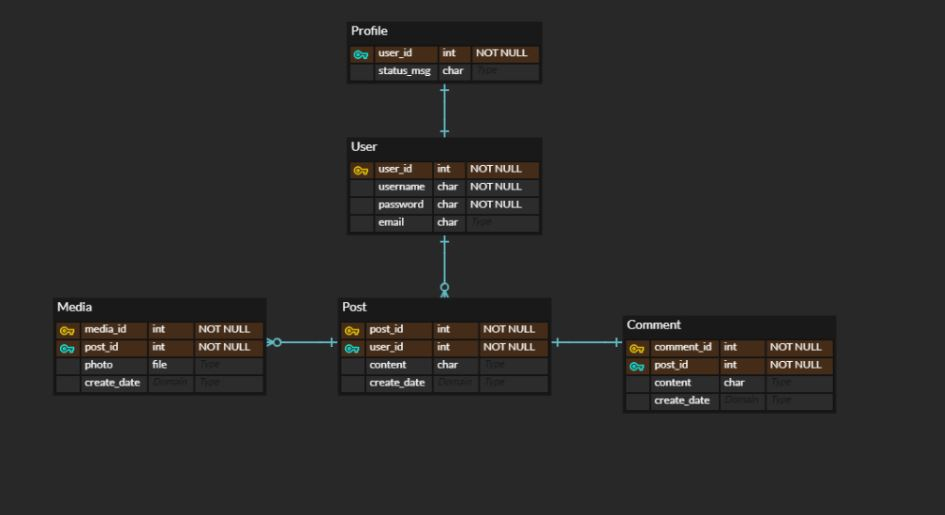
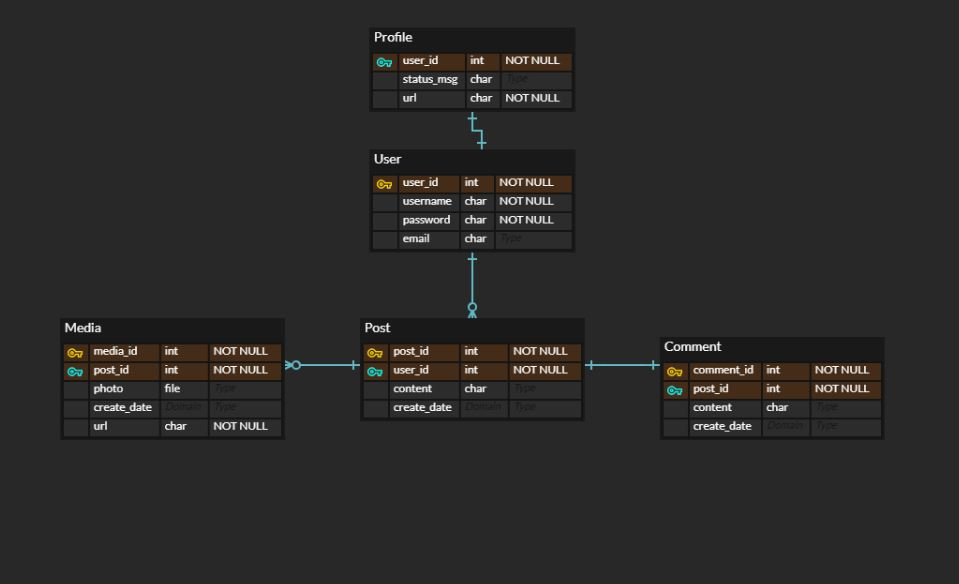
모델 수정, 4주차 DRF readme 추가

Changed region(s): [[0.0614, 0.0311, 0.9206, 0.8078]]

diff --git a/api/migrations/0003_auto_20220407_1848.py b/api/migrations/0003_auto_20220407_1848.py
@@ -1,0 +1,49 @@
+# Generated by Django 3.0.8 on 2022-04-07 09:48
+
+from django.db import migrations, models
+
+
+class Migration(migrations.Migration):
+
+    dependencies = [
+        ('api', '0002_remove_media_photo'),
+    ]
+
+    operations = [
+        migrations.RemoveField(
+            model_name='comment',
+            name='like',
+        ),
+        migrations.RemoveField(
+            model_name='post',
+            name='like',
+        ),
+        migrations.AddField(
+            model_name='media',
+            name='url',
+            field=models.CharField(default='', max_length=200),
+        ),
+        migrations.AddField(
+            model_name='profile',
+            name='url',
+            field=models.CharField(default='', max_length=200, null=True),
+        ),
+        migrations.AlterField(
+            model_name='comment',
+            name='create_date',
+            field=models.DateField(auto_now_add=True),
+        ),
+        migrations.AlterField(
+            model_name='media',
+            name='create_date',
+            field=models.DateField(auto_now_add=True),
+        ),
+        migrations.AlterField(
+            model_name='post',
+            name='create_date',
+            field=models.DateField(auto_now_add=True),
+        ),
+        migrations.DeleteModel(
+            name='Like',
+        ),
+    ]

diff --git a/api/models.py b/api/models.py
@@ -4,7 +4,7 @@ from django.contrib.auth.models import User
 class Profile(models.Model):
     user = models.OneToOneField(User, on_delete=models.CASCADE)
     status_msg = models.CharField(max_length=100, null=True)
-    url = models.CharField(max_length=200) #프로필 사진 저장할 url
+    url = models.CharField(max_length=200, null=True, default='') #프로필 사진 저장할 url
 
 class Post(models.Model):
     user = models.ForeignKey(User, on_delete=models.CASCADE)
@@ -21,5 +21,5 @@ class Comment(models.Model):
 
 class Media(models.Model):
     post = models.ForeignKey(Post, on_delete=models.CASCADE)
-    url = models.CharField(max_length=200) #사진 저장할 url
+    url = models.CharField(max_length=200, default='') #사진 저장할 url
     create_date = models.DateField(auto_now_add=True)

diff --git a/README.md b/README.md
@@ -115,7 +115,7 @@ https://www.youtube.com/playlist?list=PLuHgQVnccGMDeMJsGq2O-55Ymtx0IdKWf
     한 게시물에 여러 파일이 업로드 될 수 있으므로 post와 일대다 관계이다.  
     어떤 게시물에 해당되는 파일인지 구별하기 위해 post 모델을 foreignkey로 두었다.
 
-<img src="img/3/erd.JPG" width="650"/>
+<img src="img/3/erd.JPG" width="650"/>````
 
 - 추가 : ImageField를 사용하려면 `pip install Pillow` 필수
   - 하지만 pillow 때문에 도커 빌드가 계속 실패했다 -> uninstall pillow 하니 정상적으로 빌드 됨
@@ -153,9 +153,39 @@ def __str__(self):
 - 추가 : DateField(auto_now_add=True)를 추가했다.  
 field option에서, auto_now=True 는 주로 수정일자에 사용된다.  
 model 이 save 될 때마다 현재날짜로 갱신된다.  
-field option에서, auto_now_add=True 는 주로 생성일자에 사용된다.
+field option에서, auto_now_add=True 는 주로 생성일자에 사용된다.  
 model 이 최초 저장될 때만 현재날짜가 적용된다.
 
 # 4주차 : DRF1 - Serializer
+### JSON과 REST API 
+객체 표기법은 언어마다 다른데, JSON은 **특정 언어에 종속되지 않은 채로** 데이터를 교환하기 위해 만들어진 데이터 포맷이다.  
+데이터를 표시하는 표현 방법이라고 생각하면 된다.  
 
+Django는 보통 views.py에서 return을 할 때, render나 httpresponse함수를 사용하여 렌더링된 html페이지를 돌려준다.  
+즉 프론트 개발자들의 장고 template를 작성해야하는 것이다.  
+장고를 모르는 프론트 개발자들은 어떻게 하란 말인가!  
 
+일단, REST API라는 것을 사용하면  
+GET, POST, PUT, DELETE 같은 http method와 (CRUD기능), http url을 사용해서 특정 정보를 주거나 받는 행위를 쉽게 할 수 있다.  
+Django REST API를 사용하면, view에서 html페이지가 아닌 JSON형식의 정보를 전달해줄 수 있는 것이다.  
+즉 프론트 개발자들은 장고를 몰라도 JSON 형식의 데이터를 가져와 작업을 할 수 있다!  
+CEOS의 프론트 개발자들이 사용하는 리액트 뿐만 아니라 여러 도구에 제약이 없어지는 것이다.
+
+### DRF
+DRF(Django Rest Framework)란, Django 안에서 RESTful API 서버를 쉽게 구축할 수 있도록 하는 오픈소스 라이브러리다.  
+DRF는 Serializer 기능을 제공해준다. 또한 Serializer는 직렬화 라는 뜻을 가지고 있다.  
+쉽게 이야기 하면, Python 데이터와 QuerySet 데이터를 JSON 타입의 데이터로 변환해주는 역할을 한다!  
+
+### Serializer vs Form
+Serializer를 찾아보니 기존에 사용해봤던 Django Form과 비슷했다.  
+차이가 뭘까?  
+
+Form, ModelForm은 HTML 입력폼을 통해 입력에 대한 유효성 검사를 수행한다.  
+주로 Create, Update 등 admin에서 활동이 된다.  
+
+Serializer, ModelSerializer는 데이터 변환과 직렬화를 지원하는 것이다.  
+주로 JSON 포맷 입력에 대한 유효성을 검사한다.  
+
+이제 장고를 이용해 RESTful한 API를 만들어보자!
+
+### 
